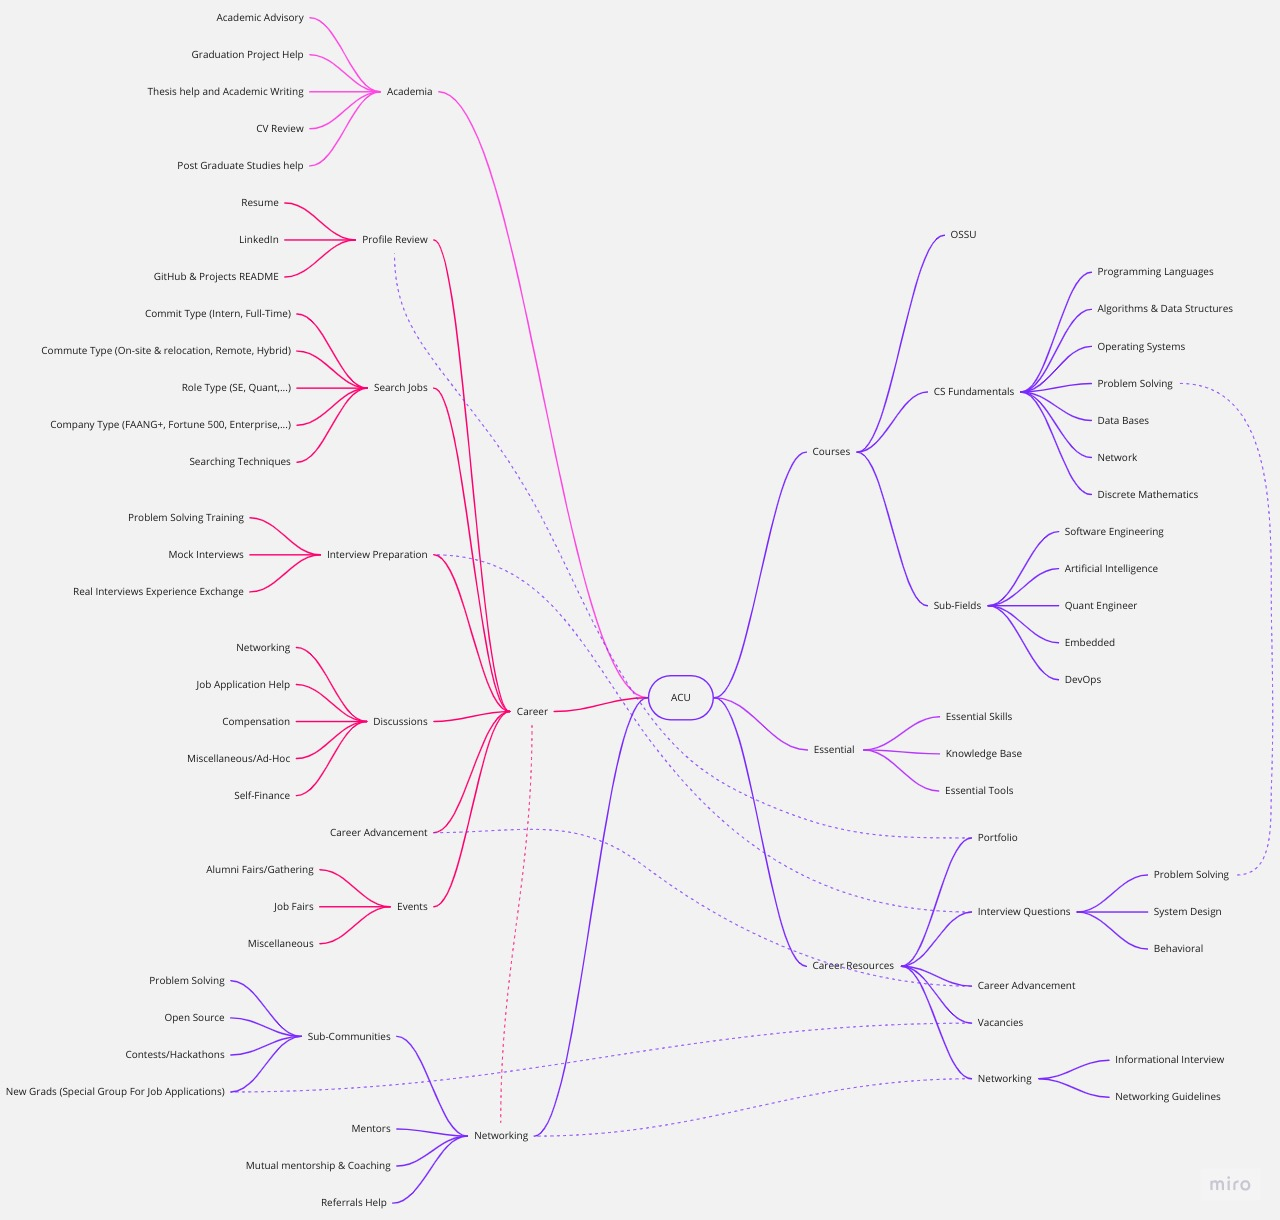
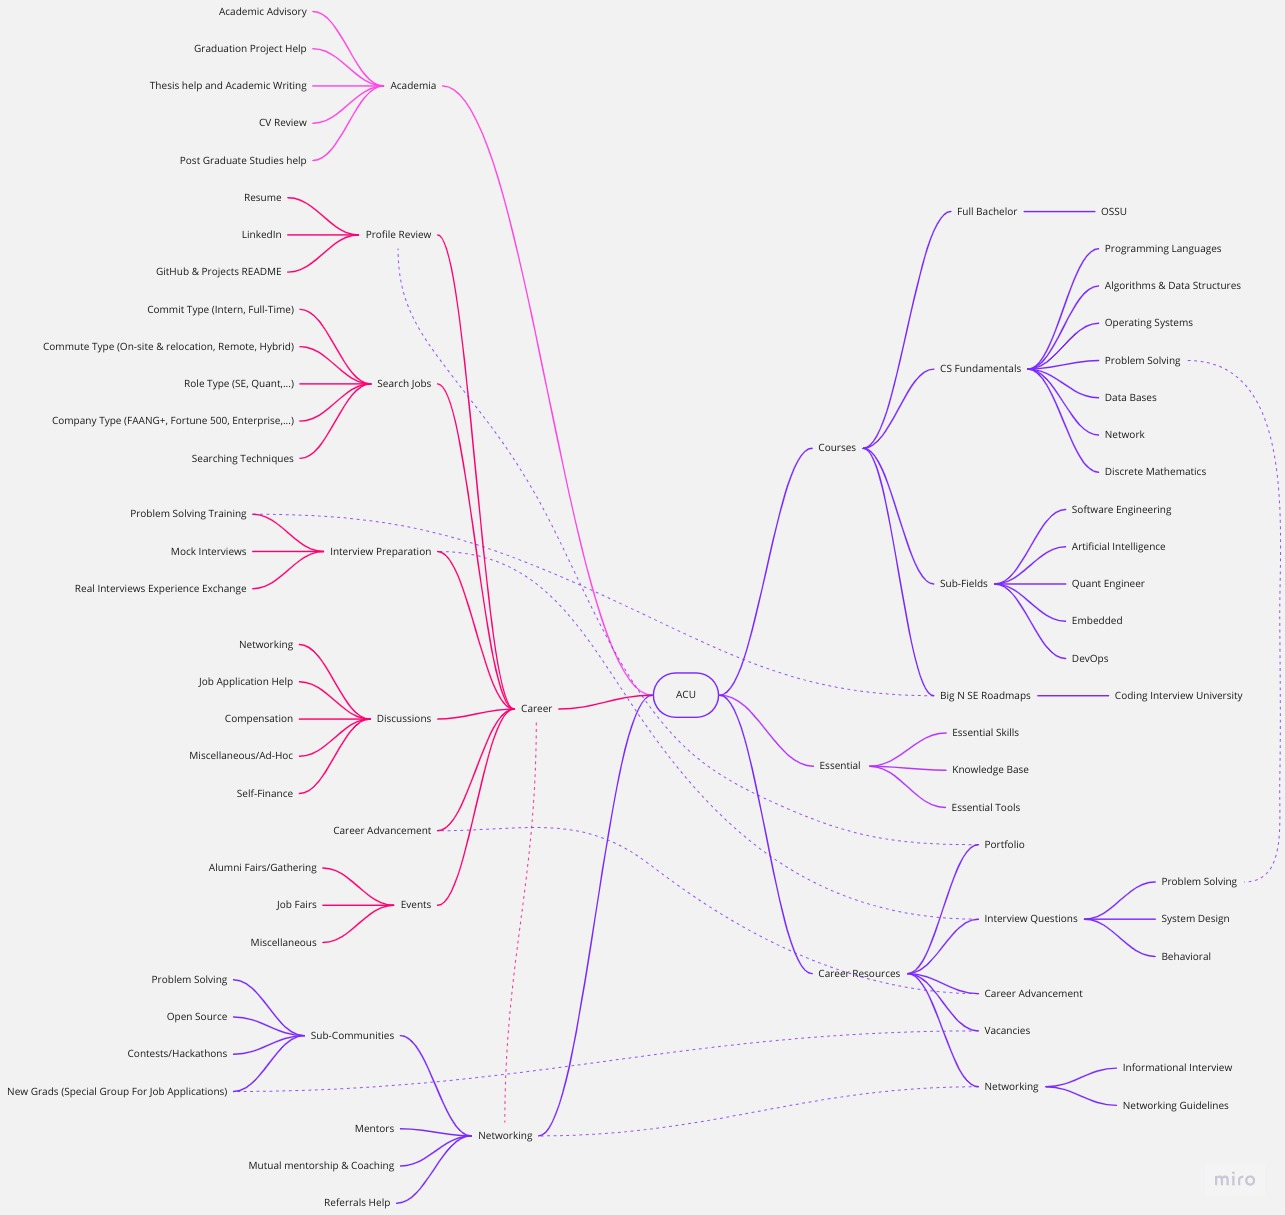
Add: Big N SE Roadmap. Mod: Repo Summary about Big Tech

diff --git a/README.md b/README.md
@@ -1,6 +1,6 @@
 # ACU
 
-An Open University providing MOOCs, Career Services, Academic Advisory, and Networking for CS/CSE only.
+An Open University primarily dedicated to preparing & working for Big Tech companies (FAANG, FAANG+, Fortune 500, Enterprises, Startups) by providing Career Services, Resources (Roadmaps & MOOCs), Networking and Academic Advisory for CS/CSE only.
 
 **Note**: **English Server is coming soon**. If you find current onboarding hard, please issue a ticket and explain.
 
@@ -33,9 +33,13 @@ For a full explanation, check [ACU Mind Map Explanation](./ACU-Mind-Map-Explanat
 
 ## Summary
 
-Active Courses University is built on top of Resources from [OSSU](https://github.com/ossu/computer-science)'s curriculum, Suggestions from Software Engineer Pioneers and other reliable sources.
+Active Courses University is a community targeting to work in Big N. Similar to the [OSSU](https://github.com/ossu/computer-science) community, it provides educational resources. Additionally, ACU provides professional Career, Networking, and Academic Advisory services.
 
-ACU is not just about MOOCs but also about imitating a real university community. ACU members are all authentic members providing free Career Services, Academic Advisory, mutual coaching, mutual mentorship, mutual tutoring, and much more. To Illustrate some tangible benefits for just the Mutual Tutoring:
+ACU Resources are mainly composed of three main resources (OSSU, CS Fundamentals, and Big N SE Roadmaps). Similar to real universities, services are provided mostly by peers/students, and some by professionals (>3 YoE).
+
+The resources utilize OSSUs' curriculum, suggestions from Software Engineer Pioneers, and other reliable sources. (Check [ACU Mind Map Explanation](./ACU-Mind-Map-Explanation.md) for details)
+
+ACU members are all authentic members providing free Career Services, Academic Advisory, mutual coaching, mutual mentorship, mutual tutoring, and much more. To Illustrate some tangible benefits for just the Mutual Tutoring:
 
 1. Students typically get 1-3 answers within 5 minutes of their questions.
 2. Students provide reviews and good resources after finishing a topic, in an iterative manner, leading to a curated educational resource after some time.
@@ -43,7 +47,7 @@ ACU is not just about MOOCs but also about imitating a real university community
 
 ACU is looking to expand current services to support everything like real universities. This can only be done via each member's contribution, suggestions, and services. Community is built on a single principle, "Those Who want help, give help"; Beneficiaries from such services shall try, with all they have, to support and contribute back to the community.
 
-Currently, almost all services in the Mind Map are limited to Trusted members on the server. But don't worry, because you can be *Trusted* by contributing to the community.
+Currently, almost all services in the Mind Map are limited to Trusted members on the server. But don't worry, because you can be @Trusted by contributing to the community.
 
 Finally, if you like the server/repository, share it or invite your acquaintances and colleagues. You will benefit directly and indirectly; your tutor, coach, mentor or study buddy might be your colleague you invited or a person that your colleague invited. Try to share it on your FB, class group (E.g., WhatsApp group). If you can ask someone popular to share this group; Do it.
 
@@ -53,7 +57,7 @@ Check [Community](#community) to join us.
 
 ### Courses
 
-* All courses follow IEEE CS2013 Guidelines (Check OSSU) while being free and interactive (autograder for assignments and final project/exam).
+* All courses follow IEEE CS2013 Guidelines (Check OSSU) while being free and interactive (autograder for assignments and final project/exam). The only exception is "Big N SE Roadmap".
 * Notes:
   * Course reviews will be provided in the GitHub Issues soon.
   * Resources that will be enhanced and rewritten in our [Website](https://www.activecourses.tech/).

diff --git a/ACU-Mind-Map-Explanation.md b/ACU-Mind-Map-Explanation.md
@@ -4,7 +4,9 @@
 
 - [Resources](#resources)
   - [Computer Science](#computer-science)
+  - [Big N SE Roadmap](#big-n-se-roadmap)
   - [Essential](#essential)
+  - [Career Resources](#career-resources)
 - [Services](#services)
   - [Academia](#academia)
   - [Career](#career)
@@ -37,6 +39,12 @@ Briefly, ACU provides currently only two roadmaps for computer science: (Both fo
          1. Software Engineering.
          2. Artificial Intelligence (Machine Learning Engineer, Deep Vision...).
 
+## Big N SE Roadmap
+
+They are reliable roadmaps and educational content provided by professionals working at those companies as a fast route to work at them. Each source contains the main contributor and his active record for references, and additionally, you can ask ACU members for their opinions.
+
+Although only "Coding Interview University" is mentioned, ACU will add more resources soon.
+
 ## Essential
 
 The essential knowledge, behavior and tools for everyone ($0\rightarrow \infty$ years of experience). Learning "How to ask?", "How to search?", "How to study?" and essential tools will boost your productivity 10-50x!
@@ -44,6 +52,10 @@ The essential knowledge, behavior and tools for everyone ($0\rightarrow \infty$ 
 1. Essential skills: (How to ask?), (How to search?), (How to study?), (How to pick your road map?).
 2. Essential tools: Git & GitHub, Linux, IDEs... .
 3. Knowledge Base: Stackoverflow-like for resources. (Later, when a topic becomes popular, it is turned into a channel with its own traffic and resources. This channel is a way for new people to catch up with old resources & discussions).
+
+## Career Resources
+
+They are resources used in the services and limited to @Trusted. For further explanation, check trusted Discord-pinned messages.
 
 # Services
 
